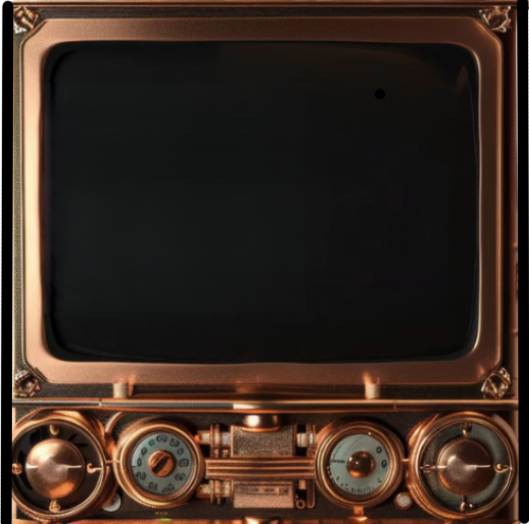
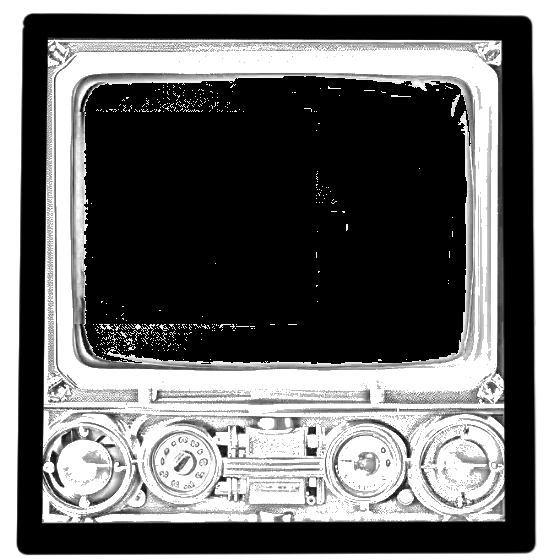
Updated background for individual blog post, completed blog post template

diff --git a/style.css b/style.css
@@ -166,8 +166,8 @@ body.blog-page {
 .screen-container {
     position: absolute;
     top: 10%;
-    left: 25%;
-    width: 50%; 
+    left: 30%;
+    width: 40%; 
     height:60vh;
     overflow-y: auto;
     padding: 40px;